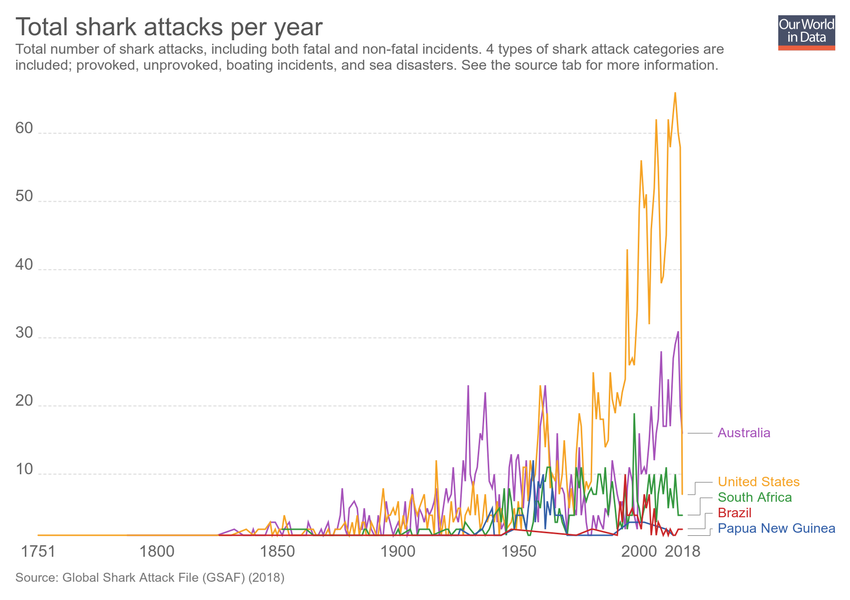
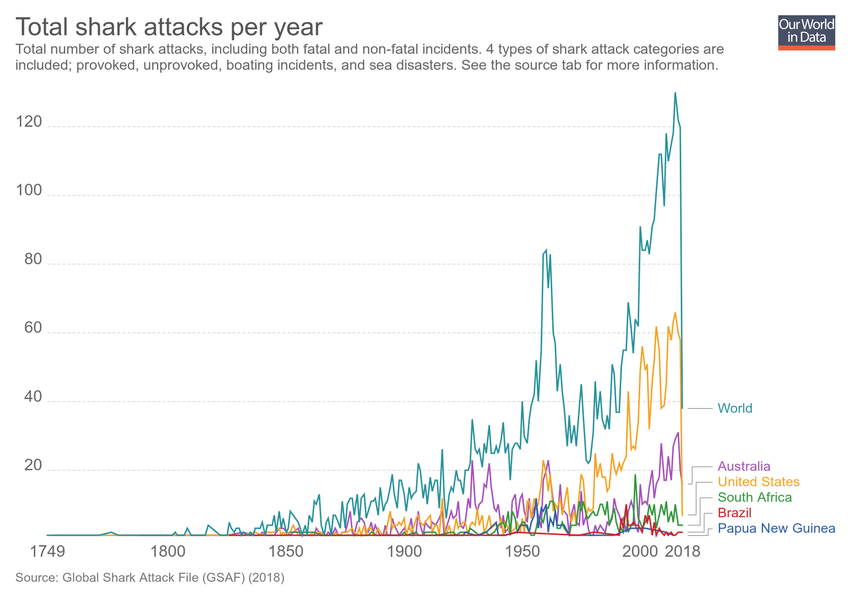
Updating chart total-shark-attacks-per-year

diff --git a/grapher/total-shark-attacks-per-year.html b/grapher/total-shark-attacks-per-year.html
@@ -1,4 +1,4 @@
-<!doctype html><html><head><meta name="viewport" content="width=device-width, initial-scale=1" /><title>Total shark attacks per year - Our World in Data</title><meta name="description" content="Total number of shark attacks, including both fatal and non-fatal incidents. 4 types of shark attack categories are included; provoked, unprovoked, boating incidents, and sea disasters. See the source tab for more information." /><link rel="canonical" href="https://ourworldindata.org/grapher/total-shark-attacks-per-year" /><meta property="fb:app_id" content="1149943818390250" /><meta property="og:url" content="https://ourworldindata.org/grapher/total-shark-attacks-per-year" /><meta property="og:title" content="Total shark attacks per year" /><meta property="og:description" content="Total number of shark attacks, including both fatal and non-fatal incidents. 4 types of shark attack categories are included; provoked, unprovoked, boating incidents, and sea disasters. See the source tab for more information." /><meta property="og:image" content="https://ourworldindata.org/grapher/exports/total-shark-attacks-per-year.png?v=11" /><meta property="og:image:width" content="850" /><meta property="og:image:height" content="600" /><meta property="og:site_name" content="Our World in Data" /><meta name="twitter:card" content="summary_large_image" /><meta name="twitter:site" content="@OurWorldInData" /><meta name="twitter:creator" content="@OurWorldInData" /><meta name="twitter:title" content="Total shark attacks per year" /><meta name="twitter:description" content="Total number of shark attacks, including both fatal and non-fatal incidents. 4 types of shark attack categories are included; provoked, unprovoked, boating incidents, and sea disasters. See the source tab for more information." /><meta name="twitter:image" content="https://ourworldindata.org/grapher/exports/total-shark-attacks-per-year.png?v=11" /><style>
+<!doctype html><html><head><meta name="viewport" content="width=device-width, initial-scale=1" /><title>Total shark attacks per year - Our World in Data</title><meta name="description" content="Total number of shark attacks, including both fatal and non-fatal incidents. 4 types of shark attack categories are included; provoked, unprovoked, boating incidents, and sea disasters. See the source tab for more information." /><link rel="canonical" href="https://ourworldindata.org/grapher/total-shark-attacks-per-year" /><meta property="fb:app_id" content="1149943818390250" /><meta property="og:url" content="https://ourworldindata.org/grapher/total-shark-attacks-per-year" /><meta property="og:title" content="Total shark attacks per year" /><meta property="og:description" content="Total number of shark attacks, including both fatal and non-fatal incidents. 4 types of shark attack categories are included; provoked, unprovoked, boating incidents, and sea disasters. See the source tab for more information." /><meta property="og:image" content="https://ourworldindata.org/grapher/exports/total-shark-attacks-per-year.png?v=13" /><meta property="og:image:width" content="850" /><meta property="og:image:height" content="600" /><meta property="og:site_name" content="Our World in Data" /><meta name="twitter:card" content="summary_large_image" /><meta name="twitter:site" content="@OurWorldInData" /><meta name="twitter:creator" content="@OurWorldInData" /><meta name="twitter:title" content="Total shark attacks per year" /><meta name="twitter:description" content="Total number of shark attacks, including both fatal and non-fatal incidents. 4 types of shark attack categories are included; provoked, unprovoked, boating incidents, and sea disasters. See the source tab for more information." /><meta name="twitter:image" content="https://ourworldindata.org/grapher/exports/total-shark-attacks-per-year.png?v=13" /><style>
         html, body {
             height: 100%;
             margin: 0;
@@ -20,8 +20,8 @@
         }
     </style><noscript><style>
                     figure { display: none !important; }
-                </style></noscript><link rel="stylesheet" href="https://ourworldindata.org/grapher/assets/commons.bundle.0cade97703a5a10acaac.css" /><link rel="preload" href="/grapher/data/variables/97759.json?v=11" as="fetch" crossorigin /></head><body class="singleChart"><figure data-grapher-src="/grapher/total-shark-attacks-per-year"></figure><noscript id="fallback"><img src="/grapher/exports/total-shark-attacks-per-year.svg" /><p>Interactive visualization requires JavaScript</p></noscript><script src="https://cdn.polyfill.io/v2/polyfill.min.js?features=es6,fetch"></script><script src="https://ourworldindata.org/grapher/assets/commons.bundle.0cade97703a5a10acaac.js"></script><script src="https://ourworldindata.org/grapher/assets/charts.bundle.0cade97703a5a10acaac.js"></script><script>
-        var jsonConfig = {"id":2941,"map":{"projection":"World","colorSchemeLabels":[],"colorSchemeValues":[],"customNumericColors":[],"customCategoryColors":{},"customCategoryLabels":{},"customHiddenCategories":{}},"tab":"chart","slug":"total-shark-attacks-per-year","type":"LineChart","title":"Total shark attacks per year","xAxis":{"scaleType":"linear"},"yAxis":{"scaleType":"linear"},"minTime":1750,"version":11,"subtitle":"Total number of shark attacks, including both fatal and non-fatal incidents. 4 types of shark attack categories are included; provoked, unprovoked, boating incidents, and sea disasters. See the source tab for more information.","hasMapTab":false,"stackMode":"absolute","dimensions":[{"display":{},"property":"y","variableId":97759}],"entityType":"entity","hasChartTab":true,"isPublished":true,"selectedData":[{"index":0,"entityId":23},{"index":0,"entityId":13},{"index":0,"entityId":81},{"index":0,"entityId":99},{"index":0,"entityId":37}],"addCountryMode":"add-country"};
+                </style></noscript><link rel="stylesheet" href="https://ourworldindata.org/grapher/assets/commons.bundle.0cade97703a5a10acaac.css" /><link rel="preload" href="/grapher/data/variables/97759.json?v=13" as="fetch" crossorigin /></head><body class="singleChart"><figure data-grapher-src="/grapher/total-shark-attacks-per-year"></figure><noscript id="fallback"><img src="/grapher/exports/total-shark-attacks-per-year.svg" /><p>Interactive visualization requires JavaScript</p></noscript><script src="https://cdn.polyfill.io/v2/polyfill.min.js?features=es6,fetch"></script><script src="https://ourworldindata.org/grapher/assets/commons.bundle.0cade97703a5a10acaac.js"></script><script src="https://ourworldindata.org/grapher/assets/charts.bundle.0cade97703a5a10acaac.js"></script><script>
+        var jsonConfig = {"id":2941,"map":{"projection":"World","colorSchemeLabels":[],"colorSchemeValues":[],"customNumericColors":[],"customCategoryColors":{},"customCategoryLabels":{},"customHiddenCategories":{}},"tab":"chart","slug":"total-shark-attacks-per-year","type":"LineChart","title":"Total shark attacks per year","xAxis":{"scaleType":"linear"},"yAxis":{"scaleType":"linear"},"minTime":1750,"version":13,"subtitle":"Total number of shark attacks, including both fatal and non-fatal incidents. 4 types of shark attack categories are included; provoked, unprovoked, boating incidents, and sea disasters. See the source tab for more information.","hasMapTab":false,"stackMode":"absolute","dimensions":[{"display":{},"property":"y","variableId":97759}],"entityType":"entity","hasChartTab":true,"isPublished":true,"selectedData":[{"index":0,"entityId":23},{"index":0,"entityId":13},{"index":0,"entityId":81},{"index":0,"entityId":99},{"index":0,"entityId":37},{"index":0,"entityId":355}],"addCountryMode":"add-country"};
         var figure = document.getElementsByTagName("figure")[0];
         try {
             window.App = {};
